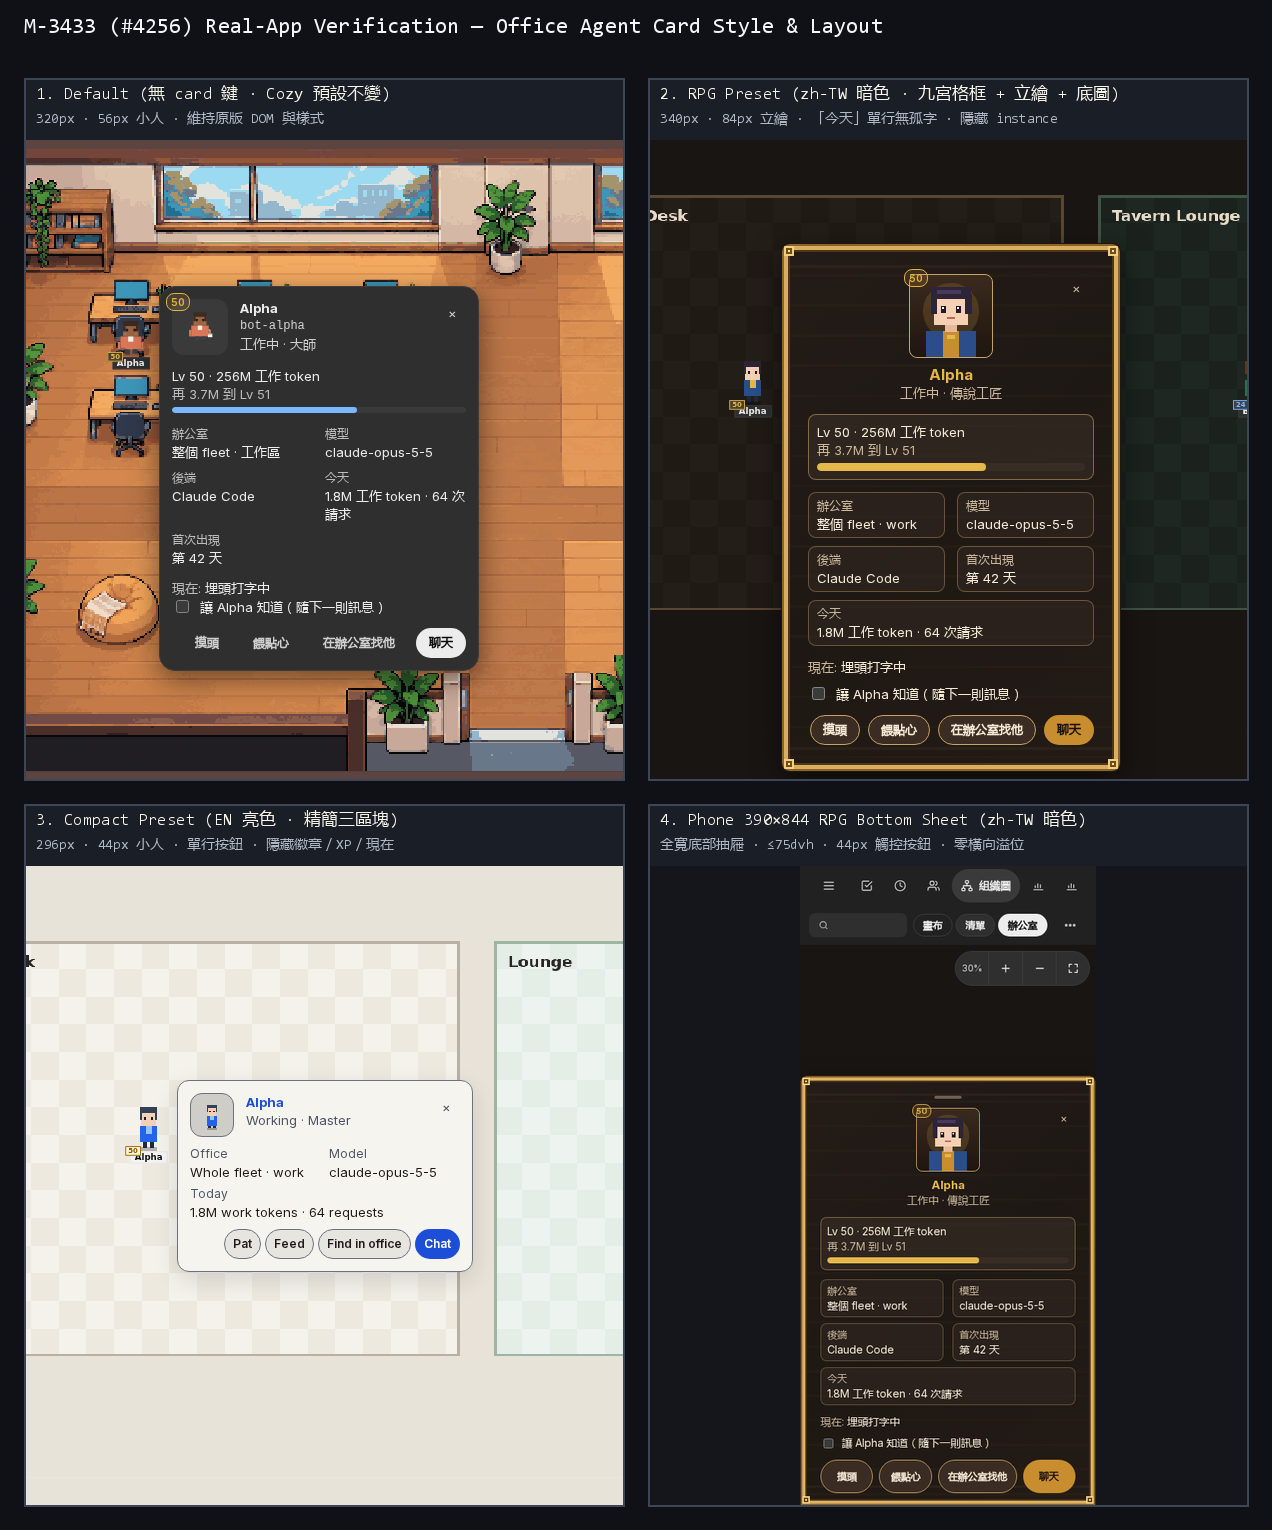
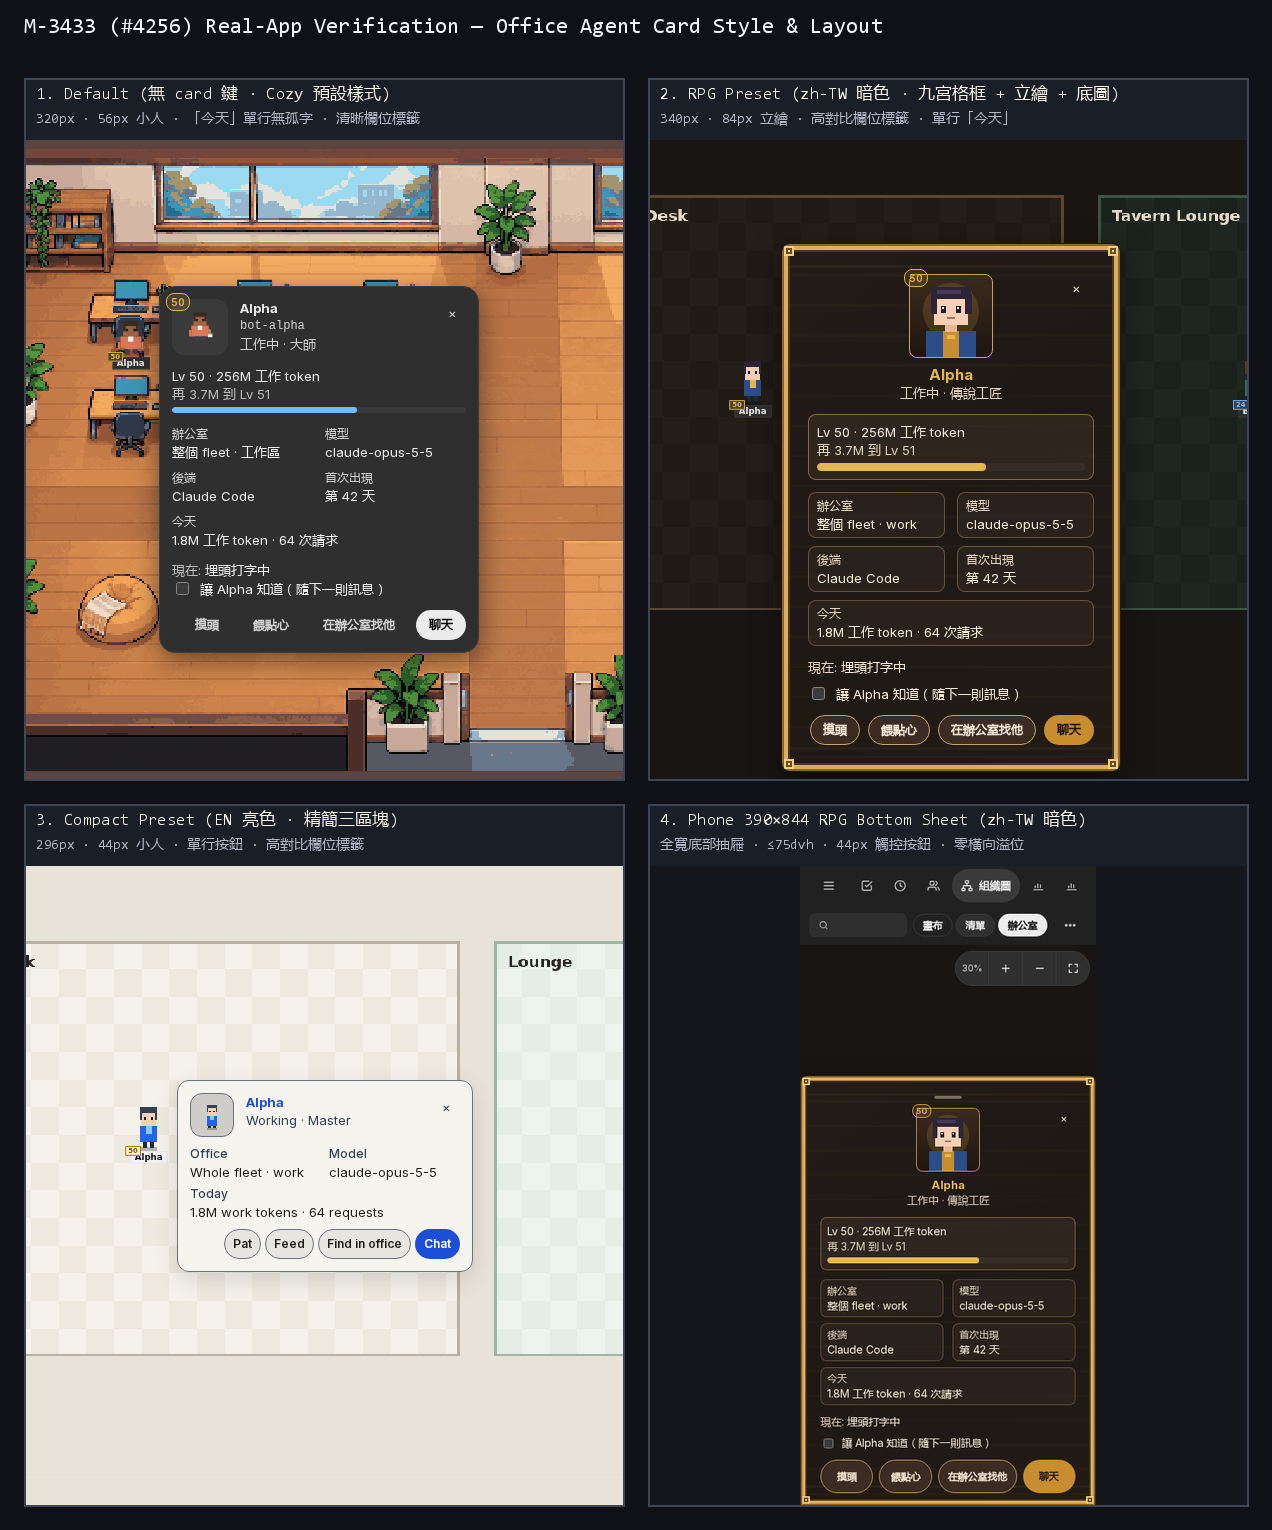
fix(office): enforce resolved card contrast pairs, dossier rowColumns:2, and single-line default today row (#4256)

diff --git a/src/ui/fleet-office-card.js b/src/ui/fleet-office-card.js
@@ -106,6 +106,14 @@ function fgFor(bgHex, minRatio = 4.5, light = "#f6f4f0", dark = "#18181b") {
   return rd >= minRatio ? dark : "#000000";
 }
 
+function mixHex(fgHex, bgHex, alpha) {
+  const ch = (i) => {
+    const a = parseInt(fgHex.slice(i, i + 2), 16), b = parseInt(bgHex.slice(i, i + 2), 16);
+    return Math.round(a * alpha + b * (1 - alpha)).toString(16).padStart(2, "0");
+  };
+  return `#${ch(1)}${ch(3)}${ch(5)}`;
+}
+
 function scrimRgba(hex, alpha) {
   const r = parseInt(hex.slice(1, 3), 16), g = parseInt(hex.slice(3, 5), 16), b = parseInt(hex.slice(5, 7), 16);
   return `rgba(${r}, ${g}, ${b}, ${alpha})`;
@@ -139,32 +147,67 @@ export function resolveCardSpec(packCard) {
   let text = s.text || null;
   let muted = s.muted || null;
   let border = s.border || null;
+  let accent = s.accent || null;
   let barTrack = s.barTrack || null;
   let barFill = s.barFill || null;
   let buttonBg = s.buttonBg || null;
   let buttonText = s.buttonText || null;
-  const buttonPrimaryBg = s.buttonPrimaryBg || null;
+  let buttonPrimaryBg = s.buttonPrimaryBg || null;
   let buttonPrimaryText = s.buttonPrimaryText || null;
 
+  const pickContrast = (against, minRatio, candidates) => {
+    for (const c of candidates) if (c && contrastRatio(c, against) >= minRatio) return c;
+    return fgFor(against, minRatio, "#f6f4f0", "#18181b");
+  };
+
   if (hasSurface && bgRef) {
-    if (!text) text = fgFor(bgRef, 4.5, "#f6f4f0", "#18181b");
-    if (!muted) {
-      const cand = dark ? "#c4bfb6" : "#4b5563";
-      muted = contrastRatio(cand, bgRef) >= 4.5 ? cand : fgFor(bgRef, 4.5, "#d6d3ce", "#374151");
+    if (!text || contrastRatio(text, bgRef) < 4.5) text = fgFor(bgRef, 4.5, "#f6f4f0", "#18181b");
+    if (!border || contrastRatio(border, bgRef) < 3.0) {
+      border = pickContrast(bgRef, 3.0, [dark ? "#6e665c" : "#71717a", dark ? "#a8a29e" : "#52525b"]);
     }
-    if (!border) {
-      const cand = dark ? "#6e665c" : "#71717a";
-      border = contrastRatio(cand, bgRef) >= 3.0 ? cand : fgFor(bgRef, 3.0, "#a8a29e", "#52525b");
+    if (accent && contrastRatio(accent, bgRef) < 4.5) accent = text;
+    if (!barTrack) {
+      barTrack = barFill
+        ? pickContrast(barFill, 3.0, [dark ? "#342f2a" : "#d4d4d8", "#27272a", "#e4e4e7"])
+        : (dark ? "#342f2a" : "#d4d4d8");
     }
-    if (!barTrack) barTrack = dark ? "#342f2a" : "#d4d4d8";
-    if (!barFill) {
-      if (s.accent && contrastRatio(s.accent, barTrack) >= 3.0) barFill = s.accent;
-      else barFill = dark ? "#e5b84b" : "#4f46e5";
+    // Ensure muted labels achieve >= 4.5:1 against both the card background and RPG stat/XP tile tint.
+    const tileBg = preset === "rpg" && barTrack ? mixHex(barTrack, bgRef, 0.65) : bgRef;
+    const mutedOk = (c) => contrastRatio(c, bgRef) >= 4.5 && contrastRatio(c, tileBg) >= 4.5;
+    if (!muted || !mutedOk(muted)) {
+      const cand = dark ? "#d6d0c6" : "#374151";
+      muted = mutedOk(cand) ? cand : fgFor(tileBg, 4.5, "#e7e5e0", "#1f2937");
     }
-    if (!buttonBg) buttonBg = dark ? "#2c2622" : "#e4e4e7";
+    if (!barFill || contrastRatio(barFill, barTrack) < 3.0) {
+      barFill = pickContrast(barTrack, 3.0, [s.accent, accent, dark ? "#e5b84b" : "#4f46e5"]);
+    }
+    if (!buttonBg) {
+      buttonBg = buttonText
+        ? pickContrast(buttonText, 4.5, [dark ? "#2c2622" : "#e4e4e7", "#1f2937", "#f4f4f5"])
+        : (dark ? "#2c2622" : "#e4e4e7");
+    }
+  } else {
+    // Partial overrides without an explicit card background: pair each supplied side with a contrasting counterpart.
+    if (barTrack && (!barFill || contrastRatio(barFill, barTrack) < 3.0)) {
+      barFill = pickContrast(barTrack, 3.0, [s.accent, "#4f46e5", "#e5b84b"]);
+    } else if (barFill && !barTrack) {
+      barTrack = pickContrast(barFill, 3.0, ["#27272a", "#e4e4e7"]);
+    }
+    if (buttonText && !buttonBg) buttonBg = pickContrast(buttonText, 4.5, ["#1f2937", "#f4f4f5"]);
   }
-  if (buttonBg && !buttonText) buttonText = fgFor(buttonBg, 4.5, "#f6f4f0", "#18181b");
-  if (buttonPrimaryBg && !buttonPrimaryText) buttonPrimaryText = fgFor(buttonPrimaryBg, 4.5, "#f6f4f0", "#18181b");
+
+  if (buttonBg && (!buttonText || contrastRatio(buttonText, buttonBg) < 4.5)) {
+    buttonText = fgFor(buttonBg, 4.5, "#f6f4f0", "#18181b");
+  }
+  // Primary button falls back to accent in CSS: resolve its foreground explicitly so light/dark surface never breaks contrast.
+  if (!buttonPrimaryBg && buttonPrimaryText) {
+    buttonPrimaryBg = pickContrast(buttonPrimaryText, 4.5, [accent, "#1d4ed8", "#18181b", "#f4f4f5"]);
+  } else if (!buttonPrimaryBg && accent) {
+    buttonPrimaryBg = accent;
+  }
+  if (buttonPrimaryBg && (!buttonPrimaryText || contrastRatio(buttonPrimaryText, buttonPrimaryBg) < 4.5)) {
+    buttonPrimaryText = fgFor(buttonPrimaryBg, 4.5, "#f6f4f0", "#18181b");
+  }
 
   const radiusKey = s.radius || PRESET_RADIUS[preset] || "lg";
   const avatarPx = AVATAR_PX[layout.avatarSize] || 56;
@@ -178,7 +221,7 @@ export function resolveCardSpec(packCard) {
   if (border) cssVars["--oo-card-border"] = border;
   if (text) cssVars["--oo-card-text"] = text;
   if (muted) cssVars["--oo-card-muted"] = muted;
-  if (s.accent) cssVars["--oo-card-accent"] = s.accent;
+  if (accent) cssVars["--oo-card-accent"] = accent;
   if (barTrack) cssVars["--oo-card-bar-track"] = barTrack;
   if (barFill) cssVars["--oo-card-bar-fill"] = barFill;
   if (buttonBg) cssVars["--oo-card-btn-bg"] = buttonBg;
@@ -348,7 +391,7 @@ export function OfficeCard({ model: m, avatar, sheet, place, onChat, onFind, onC
         ${m.level.line2 ? html`<div class="muted">${m.level.line2}</div>` : null}
         ${m.level.pct !== null ? html`<progress class="oo-card-bar" max="100" value=${Math.round(m.level.pct * 100)} aria-label=${tc("xp", m.level.next)}></progress>` : null}
       </div>` : null}
-      <dl class="oo-card-rows">${m.rows.map(([k, v]) => html`<div><dt>${k}</dt><dd>${v}</dd></div>`)}</dl>
+      <dl class="oo-card-rows">${(m.rowItems || m.rows.map(([label, value]) => ({ key: "", label, value }))).map((r) => html`<div data-row=${r.key || undefined}><dt>${r.label}</dt><dd>${r.value}</dd></div>`)}</dl>
       ${m.now ? html`<div class="oo-card-now"><span class="muted">${tc("now")}:</span> ${m.now}</div>` : null}
       ${tell ? html`<label class="check oo-card-tell" title=${tc("tellNote")}><input type="checkbox" checked=${tell.on} onChange=${(e) => tell.set(e.target.checked)} />
         <span>${tc("tell", m.name)}</span></label>` : null}
@@ -369,7 +412,7 @@ export function OfficeCard({ model: m, avatar, sheet, place, onChat, onFind, onC
     "oo-card-custom",
     spec.preset !== "default" ? `oo-card-${spec.preset}` : "",
     spec.layout.headerAlign === "center" ? "oo-card-center" : "",
-    spec.layout.rowColumns === 1 ? "oo-card-cols-1" : "",
+    `oo-card-cols-${spec.layout.rowColumns}`,
     spec.backdrop && spec.backdrop.frame ? "oo-card-framed" : "",
     sheet ? "sheet" : "",
   ].filter(Boolean).join(" ");

diff --git a/tests/web-office-card-style-4256.test.ts b/tests/web-office-card-style-4256.test.ts
@@ -134,15 +134,16 @@ describe("skin-pack card schema & WCAG contrast checks (#4256)", () => {
     expect(check({ layout: { hide: ["close"] } }).error).toMatch(/^card\.layout\.hide\[0\]:/);
   });
 
-  it("enforces WCAG contrast ratios on explicit colour pairs (4.5:1 text/buttons, 3.0:1 border/bar)", () => {
+  it("enforces WCAG contrast ratios on explicit colour pairs (4.5:1 text/accent/buttons, 3.0:1 border/bar)", () => {
     const check = (style: Record<string, unknown>) => PK.checkSkinPack(baseManifest({ card: { style } }));
     expect(check({ background: "#1f1916", text: "#3a302a" }).error).toMatch(/card\.style\.text: contrast ratio against background must be at least 4\.5:1/);
     expect(check({ background: "#1f1916", muted: "#554b44" }).error).toMatch(/card\.style\.muted: contrast ratio against background must be at least 4\.5:1/);
+    expect(check({ background: "#181614", accent: "#181614" }).error).toMatch(/card\.style\.accent: contrast ratio against background must be at least 4\.5:1/);
     expect(check({ buttonBg: "#3a2c22", buttonText: "#665544" }).error).toMatch(/card\.style\.buttonText: contrast ratio against buttonBg must be at least 4\.5:1/);
     expect(check({ buttonPrimaryBg: "#c88d2e", buttonPrimaryText: "#f6ead7" }).error).toMatch(/card\.style\.buttonPrimaryText: contrast ratio against buttonPrimaryBg must be at least 4\.5:1/);
     expect(check({ background: "#1f1916", border: "#302824" }).error).toMatch(/card\.style\.border: contrast ratio against background must be at least 3:1/);
     expect(check({ barTrack: "#382d25", barFill: "#52443a" }).error).toMatch(/card\.style\.barFill: contrast ratio against barTrack must be at least 3:1/);
-    expect(check({ background: "#1f1916", text: "#f6ead7", muted: "#c9b69a", border: "#c8a165", barTrack: "#382d25", barFill: "#e5b84b" }).ok).toBe(true);
+    expect(check({ background: "#1f1916", text: "#f6ead7", muted: "#c9b69a", accent: "#e5b84b", border: "#c8a165", barTrack: "#382d25", barFill: "#e5b84b" }).ok).toBe(true);
   });
 });
 
@@ -225,6 +226,46 @@ describe("resolveCardSpec, auto-foreground contrast & share-link security (#4256
     const imgOnly = C.resolveCardSpec({ style: { backgroundImage: "ui/bg.png" } });
     expect(imgOnly.backdrop.scrim).toMatch(/^rgba\(/);
     expect(imgOnly.cssVars["--oo-card-text"]).toBeTruthy();
+
+    // RPG stat/XP tile tint: if explicit muted passes against background but dips below 4.5:1 against the tinted tile, auto-upgrade.
+    const rpgTint = C.resolveCardSpec({ preset: "rpg", style: { background: "#141110", barTrack: "#5a4d42", muted: "#887e74" } });
+    expect(PK.contrastRatio(rpgTint.cssVars["--oo-card-muted"], "#141110")).toBeGreaterThanOrEqual(4.5);
+    expect(PK.contrastRatio(rpgTint.cssVars["--oo-card-muted"], "#413830")).toBeGreaterThanOrEqual(4.5);
+
+    // Prism P2 partial-override controls: derived defaults must contrast with supplied counterparts.
+    const goldTrack = C.resolveCardSpec({ style: { background: "#181614", barTrack: "#e5b84b" } });
+    expect(PK.contrastRatio(goldTrack.cssVars["--oo-card-bar-fill"], "#e5b84b")).toBeGreaterThanOrEqual(3.0);
+
+    const sameAccent = C.resolveCardSpec({ style: { background: "#181614", accent: "#181614" } });
+    expect(PK.contrastRatio(sameAccent.cssVars["--oo-card-accent"], "#181614")).toBeGreaterThanOrEqual(4.5);
+
+    // Accent-derived primary button must always pair with >= 4.5:1 buttonPrimaryText.
+    const accentPrimary = C.resolveCardSpec({ style: { background: "#181614", accent: "#e5b84b" } });
+    expect(accentPrimary.cssVars["--oo-card-btn-primary-bg"]).toBe("#e5b84b");
+    expect(PK.contrastRatio(accentPrimary.cssVars["--oo-card-btn-primary-text"], "#e5b84b")).toBeGreaterThanOrEqual(4.5);
+
+    // Partial overrides without background still resolve contrasting bar & button pairs.
+    const trackOnly = C.resolveCardSpec({ style: { barTrack: "#e5b84b" } });
+    expect(PK.contrastRatio(trackOnly.cssVars["--oo-card-bar-fill"], "#e5b84b")).toBeGreaterThanOrEqual(3.0);
+    const btnTextOnly = C.resolveCardSpec({ style: { buttonText: "#f6ead7" } });
+    expect(PK.contrastRatio("#f6ead7", btnTextOnly.cssVars["--oo-card-btn-bg"])).toBeGreaterThanOrEqual(4.5);
+  });
+
+  it("Prism P3: dossier preset with rowColumns: 2 emits oo-card-cols-2 and CSS overrides dossier single-column rule", async () => {
+    const { readFileSync } = await import("node:fs");
+    const { join } = await import("node:path");
+    const css = readFileSync(join(process.cwd(), "src", "ui", "shared", "app.css"), "utf8");
+    expect(css).toContain(".oo-card-dossier.oo-card-cols-2 .oo-card-rows { grid-template-columns: 1fr 1fr;");
+    const { render } = await import("/assets/app-html.js");
+    const { h } = await import("/assets/app-html.js");
+    const host = document.createElement("div");
+    const node = { name: "alpha", state: "working", i: { name: "alpha", display_name: "Alpha", backend: "claude-code", model: "claude-opus-5-5" } };
+    const m = C.cardModel({ node, lv: null, levels: null, share: false, state: "Working", now: "Typing", where: "Eng · Work" });
+    render(h(C.OfficeCard, { model: m, onClose: () => {}, packCard: { preset: "dossier", layout: { rowColumns: 2 } } }), host);
+    const cardEl = host.querySelector(".oo-card")!;
+    expect(cardEl.className).toContain("oo-card-dossier");
+    expect(cardEl.className).toContain("oo-card-cols-2");
+    render(null, host);
   });
 
   it("share-link invariant: card.layout can never reveal stripped model/backend/today/firstSeen on a share link", () => {

diff --git a/src/ui/shared/app.css b/src/ui/shared/app.css
@@ -2563,9 +2563,10 @@ strong.org-name { font-size: var(--fs-sm); color: var(--text); }
 .oo-card-bar::-webkit-progress-bar { background: var(--surface-2); border-radius: var(--r-full); }
 .oo-card-bar::-webkit-progress-value { background: var(--accent); border-radius: var(--r-full); }
 .oo-card-bar::-moz-progress-bar { background: var(--accent); border-radius: var(--r-full); }
-.oo-card-rows { display: grid; grid-template-columns: 1fr 1fr; gap: var(--s-2) var(--s-3); margin: var(--s-3) 0 0; }
+.oo-card-rows { display: grid; grid-template-columns: 1fr 1fr; grid-auto-flow: row dense; gap: var(--s-2) var(--s-3); margin: var(--s-3) 0 0; }
 .oo-card-rows > div { min-width: 0; }
-.oo-card-rows dt { font-size: var(--fs-xs); color: var(--text-3); }
+.oo-card-rows > div[data-row="today"] { grid-column: 1 / -1; }
+.oo-card-rows dt { font-size: var(--fs-xs); font-weight: var(--fw-medium); color: var(--text-2); }
 .oo-card-rows dd { margin: 0; overflow-wrap: anywhere; }
 .oo-card-now { margin-top: var(--s-3); overflow-wrap: anywhere; }
 .oo-card-actions { display: flex; justify-content: flex-end; flex-wrap: wrap; gap: var(--s-2); margin-top: var(--s-3); }
@@ -2590,8 +2591,6 @@ strong.org-name { font-size: var(--fs-sm); color: var(--text); }
 .oo-card-custom .oo-card-bar::-webkit-progress-bar { background: var(--oo-card-bar-track, var(--surface-2)); }
 .oo-card-custom .oo-card-bar::-webkit-progress-value { background: var(--oo-card-bar-fill, var(--oo-card-accent, var(--accent))); }
 .oo-card-custom .oo-card-bar::-moz-progress-bar { background: var(--oo-card-bar-fill, var(--oo-card-accent, var(--accent))); }
-.oo-card-custom .oo-card-rows { grid-auto-flow: row dense; }
-.oo-card-custom .oo-card-rows > div[data-row="today"] { grid-column: 1 / -1; }
 .oo-card-custom .oo-card-actions .btn-ghost { background: var(--oo-card-btn-bg, transparent); color: var(--oo-card-btn-text, var(--oo-card-text, var(--text))); border-color: var(--oo-card-border, var(--border)); }
 .oo-card-custom .oo-card-actions .btn-primary { background: var(--oo-card-btn-primary-bg, var(--oo-card-accent, var(--accent))); color: var(--oo-card-btn-primary-text, var(--surface)); border-color: transparent; }
 .oo-card-custom .oo-card-tell { margin-top: var(--s-2); }
@@ -2618,6 +2617,9 @@ strong.org-name { font-size: var(--fs-sm); color: var(--text); }
 .oo-card-dossier .oo-card-rows > div:last-child { border-bottom: 0; padding-bottom: 0; }
 .oo-card-dossier .oo-card-rows dd { text-align: right; }
 .oo-card-cols-1 .oo-card-rows { grid-template-columns: 1fr; }
+.oo-card-dossier.oo-card-cols-2 .oo-card-rows { grid-template-columns: 1fr 1fr; gap: var(--s-2) var(--s-3); }
+.oo-card-dossier.oo-card-cols-2 .oo-card-rows > div { display: block; border-bottom: 0; padding-bottom: 0; }
+.oo-card-dossier.oo-card-cols-2 .oo-card-rows dd { text-align: left; }
 .oo-badge { display: inline-block; min-width: 18px; padding: 0 4px; box-sizing: border-box; font-size: var(--fs-3xs); font-weight: var(--fw-semibold); line-height: 16px; text-align: center;
   border-radius: var(--r-sm); border: 1px solid var(--border); background: var(--surface-2); color: var(--text-2); }
 .oo-badge.mark { min-width: 10px; width: 10px; height: 10px; padding: 0; transform: rotate(45deg); border-radius: 2px; }

diff --git a/src/ui/fleet-office-pack.js b/src/ui/fleet-office-pack.js
@@ -562,6 +562,7 @@ function cardOf(v) {
     const pairs = [
       ["text", "background", CARD_LIMITS.textContrast],
       ["muted", "background", CARD_LIMITS.textContrast],
+      ["accent", "background", CARD_LIMITS.textContrast],
       ["buttonText", "buttonBg", CARD_LIMITS.textContrast],
       ["buttonPrimaryText", "buttonPrimaryBg", CARD_LIMITS.textContrast],
       ["border", "background", CARD_LIMITS.uiContrast],

diff --git a/docs/evidence/office-card-style-m3433/README.md b/docs/evidence/office-card-style-m3433/README.md
@@ -6,6 +6,6 @@ Captured on the real AgEnD web dashboard (`scripts/manual/smoke/smoke-office-car
 
 | File | Dimensions | Bytes | SHA-256 | What it shows |
 |---|---:|---:|---|---|
[6 lines of base64/hex data omitted]
